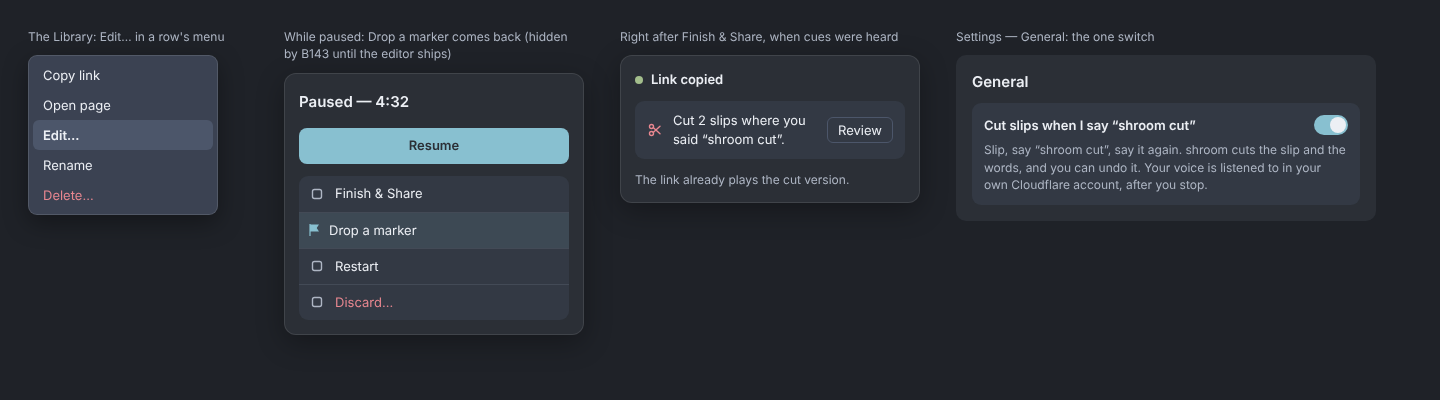
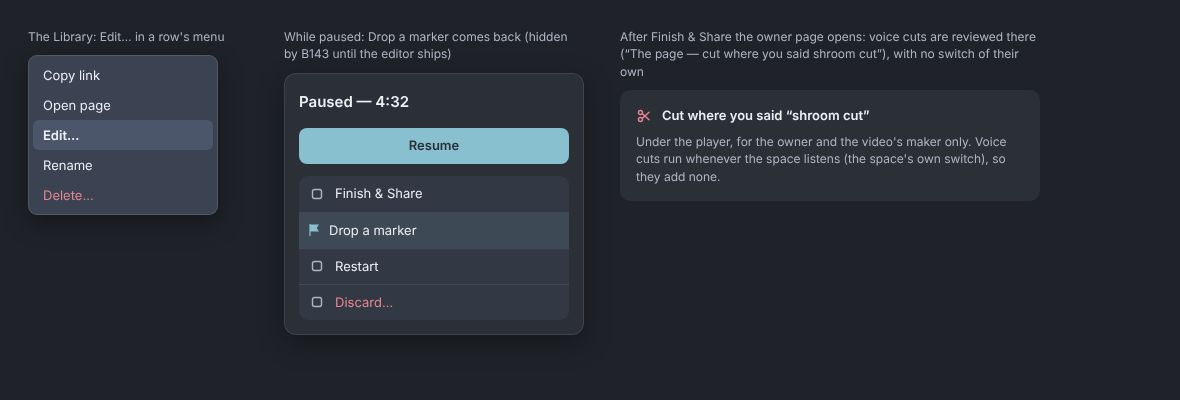
dev/proposals/voice-cut: the owner page's voice-cut boards; the ways-in board corrected
Voice cuts are reviewed where the owner looks after Finish & Share: the
owner page, under the player, owner-only, with Put back and Cut it too
(OwnerPageCuts, OwnerPageCutRows; N65, provisional). The ways-in board
no longer shows a popover after the stop (none opens) or a switch of
their own (they ride the space's listening).

diff --git a/dev/proposals/voice-cut/OwnerPageCuts.dc.html b/dev/proposals/voice-cut/OwnerPageCuts.dc.html
@@ -1,0 +1,45 @@
+<!doctype html>
+<html lang="en">
+<head>
+<meta charset="utf-8">
+<title>shroom video page, cut where you said shroom cut</title>
+<script src="./support.js"></script>
+</head>
+<body>
+<x-dc>
+<helmet>
+<style>
+body{margin:0}
+a{color:#88c0d0}a:hover{color:#8fbcbb}
+</style>
+</helmet>
+<div style="width: 1280px; min-height: 1100px; box-sizing: border-box; background: #2b2f36; padding: 40px 16px 24px 16px; display: flex; flex-direction: column; align-items: center; font-family: -apple-system, BlinkMacSystemFont, system-ui, sans-serif; font-size: 14px; line-height: 1.5; color: #eceff4"><div style="width: 100%; max-width: 960px; flex: 1 1 auto; display: flex; flex-direction: column; gap: 20px"><div style="display: flex; flex-direction: row; align-items: center; gap: 4px"><input type="text" aria-label="Title" value="Setting up shroom in two minutes" style="font: inherit; font-size: 1.75rem; font-weight: 600; flex: 1 1 0; min-width: 0; box-sizing: border-box; height: 52px; padding: 0; border: 1px solid transparent; border-radius: 9px; background: transparent; color: #eceff4; text-overflow: ellipsis"><button aria-label="Copy link" style="width: 44px; height: 44px; border: 0; border-radius: 9px; background: transparent; display: flex; align-items: center; justify-content: center; flex: none"><svg viewBox="0 0 16 16" aria-hidden="true" style="width: 18px; height: 18px; fill: none; stroke: #c3cad6; stroke-width: 1.4; stroke-linecap: round; stroke-linejoin: round; display: block"><path d="M6.8 9.2a2.8 2.8 0 0 0 4 0l2.2-2.2a2.8 2.8 0 0 0-4-4l-.8.8M9.2 6.8a2.8 2.8 0 0 0-4 0L3 9a2.8 2.8 0 0 0 4 4l.8-.8"></path></svg></button><button aria-label="Download" style="width: 44px; height: 44px; border: 0; border-radius: 9px; background: transparent; display: flex; align-items: center; justify-content: center; flex: none"><svg viewBox="0 0 16 16" aria-hidden="true" style="width: 18px; height: 18px; fill: none; stroke: #c3cad6; stroke-width: 1.4; stroke-linecap: round; stroke-linejoin: round; display: block"><path d="M8 2.5v8M4.5 7.5L8 11l3.5-3.5M3 13.5h10"></path></svg></button></div><div style="width: 100%; aspect-ratio: 16 / 9; border-radius: 12px; background: #1f2228; display: flex; flex-direction: column; overflow: hidden">
+<div style="flex: 1 1 0; display: flex; align-items: center; justify-content: center">
+<button aria-label="Play" style="width: 72px; height: 72px; border: 0; border-radius: 36px; background: rgba(236, 239, 244, 0.16); display: flex; align-items: center; justify-content: center">
+<svg viewBox="0 0 16 16" aria-hidden="true" style="width: 26px; height: 26px; fill: #eceff4; display: block"><path d="M5 3v10l8.5-5z"></path></svg>
+</button>
+</div>
+<div style="background: #262a31; display: flex; flex-direction: column; flex: none">
+<div role="slider" tabindex="0" aria-label="Seek" aria-valuetext="1:21 of 3:58" style="height: 16px; margin: -6px 0 -6px 0; display: flex; flex-direction: row; align-items: center; position: relative">
+<div style="width: 30%; height: 4px; background: #88c0d0"></div>
+<div style="width: 14px; height: 14px; border-radius: 7px; background: #eceff4; margin: 0 -7px; flex: none; position: relative"></div>
+<div style="flex: 1 1 0; height: 4px; background: #434a56"></div>
+</div>
+<div style="height: 52px; padding: 0 10px; display: flex; flex-direction: row; align-items: center; gap: 4px; color: #d8dee9; font-size: 13px">
+<button aria-label="Play" style="width: 44px; height: 44px; border: 0; border-radius: 8px; background: transparent; display: flex; align-items: center; justify-content: center; flex: none"><svg viewBox="0 0 16 16" aria-hidden="true" style="width: 18px; height: 18px; fill: #eceff4; display: block"><path d="M4.5 2.5v11l9-5.5z"></path></svg></button>
+<span style="font-variant-numeric: tabular-nums; padding: 0 6px; white-space: nowrap"><span style="color: #eceff4">1:21</span> / 3:58</span>
+<div style="flex: 1 1 0"></div>
+<button aria-label="Playback speed, 1×" style="font: inherit; height: 44px; min-width: 44px; padding: 0 10px; border: 0; border-radius: 8px; background: transparent; color: #d8dee9; font-weight: 600; flex: none">1×</button>
+</div>
+</div>
+</div><section aria-label="Cuts where you said shroom cut" style="background: #333944; border-radius: 12px; padding: 14px 16px; display: flex; flex-direction: column; gap: 10px"><div style="display: flex; flex-direction: row; align-items: center; gap: 10px"><svg viewBox="0 0 16 16" aria-hidden="true" style="width: 16px; height: 16px; fill: none; stroke: #e88790; stroke-width: 1.4; stroke-linecap: round; display: block; flex: none"><circle cx="4.5" cy="4.5" r="2"></circle><circle cx="4.5" cy="11.5" r="2"></circle><path d="M6.2 5.6L13 11.8M6.2 10.4L13 4.2"></path></svg><span style="font-weight: 600; font-size: 15px" data-said="owner-page-cuts.cut-where-you-said">Cut where you said “shroom cut”</span><span style="flex: 1 1 0"></span><span style="color: #aeb6c4; font-size: 13px" data-said="owner-page-cuts.only-you-see-this">Only you see this.</span></div><div style="display: flex; flex-direction: row; align-items: center; gap: 14px; padding: 10px 0 0 0; border-top: 1px solid #434a56"><span style="font-variant-numeric: tabular-nums; color: #c3cad6; flex: none; width: 36px">0:04</span><span style="flex: 1 1 0; min-width: 0; display: flex; flex-direction: column; gap: 2px"><span style="color: #aeb6c4; text-decoration: line-through; text-decoration-color: #e88790">“Hello, that is shroom. Shroom cut.”</span></span><button style="font: inherit; font-size: 13px; height: 32px; padding: 0 12px; border: 1px solid #4c566a; border-radius: 8px; background: transparent; color: #eceff4; flex: none" data-said="owner-page-cuts.put-back">Put back</button></div><div style="display: flex; flex-direction: row; align-items: center; gap: 14px; padding: 10px 0 0 0; border-top: 1px solid #434a56"><span style="font-variant-numeric: tabular-nums; color: #c3cad6; flex: none; width: 36px">1:12</span><span style="flex: 1 1 0; min-width: 0; display: flex; flex-direction: column; gap: 2px"><span style="color: #aeb6c4; text-decoration: line-through; text-decoration-color: #e88790">“Then you pick the, the window you, um, shroom cut.”</span></span><button style="font: inherit; font-size: 13px; height: 32px; padding: 0 12px; border: 1px solid #4c566a; border-radius: 8px; background: transparent; color: #eceff4; flex: none" data-said="owner-page-cuts.put-back">Put back</button></div><div style="display: flex; flex-direction: row; align-items: center; gap: 14px; padding: 10px 0 0 0; border-top: 1px solid #434a56"><span style="font-variant-numeric: tabular-nums; color: #c3cad6; flex: none; width: 36px">2:47</span><span style="flex: 1 1 0; min-width: 0; display: flex; flex-direction: column; gap: 2px"><span style="color: #ebcb8b; font-size: 13px" data-said="owner-page-cuts.only-the-words-went">Nothing was said again after it, so only “shroom cut” went. Cut the line before it too?</span><span style="color: #eceff4">“The second one is, um, I forget what it's called.”</span></span><button style="font: inherit; font-size: 13px; height: 32px; padding: 0 12px; border: 1px solid #4c566a; border-radius: 8px; background: transparent; color: #eceff4; flex: none" data-said="owner-page-cuts.cut-it-too">Cut it too</button></div></section></div><div style="width: 100%; max-width: 960px; padding: 32px 0 0 0; display: flex; flex-direction: row; justify-content: flex-end; align-items: center; gap: 10px"><button role="switch" aria-checked="true" aria-labelledby="mark-label" style="width: 36px; height: 20px; border: 0; border-radius: 10px; background: #88c0d0; padding: 2px; display: flex; flex-direction: row; justify-content: flex-end; align-items: center; flex: none"><span style="width: 16px; height: 16px; border-radius: 8px; background: #2b2f36; display: block"></span></button><span id="mark-label" style="color: #aeb6c4; font-size: 13px" data-said="owner-page.made-with-shroom">made with shroom</span><svg viewBox="18 20 84 90" aria-hidden="true" style="width: 17px; height: 18px; display: block"><path d="M50,68 C49,82 46,92 46,96 C46,101 52,104 60,104 C68,104 74,101 74,96 C74,92 71,82 70,68 Z" fill="#E5E9F0"></path><path d="M24,64 C24,42 40,26 60,26 C80,26 96,42 96,64 C86,75 34,75 24,64 Z" fill="#88C0D0"></path><circle cx="33" cy="58" r="3.4" fill="#ECEFF4"></circle><circle cx="88" cy="58" r="2.2" fill="#ECEFF4"></circle><circle cx="50" cy="44" r="6" fill="#ECEFF4"></circle><circle cx="72" cy="48" r="3.6" fill="#ECEFF4"></circle><circle cx="64" cy="58" r="2.6" fill="#ECEFF4"></circle></svg></div></div>
+</x-dc>
+<script type="text/x-dc" data-dc-script data-props='{"$preview":{"width":1280,"height":1100}}'>
+class Component extends DCLogic {
+renderVals() {
+return {};
+}
+}
+</script>
+</body>
+</html>

diff --git a/dev/proposals/voice-cut/EditorDoors.dc.html b/dev/proposals/voice-cut/EditorDoors.dc.html
@@ -13,7 +13,7 @@ body{margin:0}
 a{color:#88c0d0}a:hover{color:#8fbcbb}
 </style>
 </helmet>
-<div style="width: 1440px; height: 400px; box-sizing: border-box; background: #1f2228; display: flex; flex-direction: column; font-family: -apple-system, BlinkMacSystemFont, system-ui, sans-serif; font-size: 13px; line-height: 1.45; color: #eceff4">
+<div style="width: 1180px; height: 400px; box-sizing: border-box; background: #1f2228; display: flex; flex-direction: column; font-family: -apple-system, BlinkMacSystemFont, system-ui, sans-serif; font-size: 13px; line-height: 1.45; color: #eceff4">
 <div style="flex: 1 1 0; padding: 28px; display: flex; flex-direction: row; gap: 36px; align-items: flex-start">
 <div style="width: 220px; display: flex; flex-direction: column; gap: 10px; flex: none"><span style="color: #aeb6c4; font-size: 12px">The Library: Edit… in a row's menu</span><div role="menu" style="width: 190px; box-sizing: border-box; background: #3b4252; border: 1px solid rgba(255, 255, 255, 0.12); border-radius: 9px; box-shadow: 0 8px 24px rgba(0, 0, 0, 0.35); padding: 4px; display: flex; flex-direction: column">
 <button role="menuitem" style="font: inherit; height: 30px; padding: 0 10px; border: 0; border-radius: 6px; background: transparent; color: #eceff4; text-align: left">Copy link</button><button role="menuitem" style="font: inherit; height: 30px; padding: 0 10px; border: 0; border-radius: 6px; background: transparent; color: #eceff4; text-align: left">Open page</button>
@@ -25,21 +25,11 @@ a{color:#88c0d0}a:hover{color:#8fbcbb}
 <button style="font: inherit; height: 36px; padding: 0 10px; border: 0;  background: transparent; color: #eceff4; display: flex; flex-direction: row; align-items: center; gap: 10px; text-align: left"><svg viewBox="0 0 16 16" aria-hidden="true" style="width: 16px; height: 16px; fill: none; stroke: #aeb6c4; stroke-width: 1.4; display: block; flex: none"><rect x="3.5" y="3.5" width="9" height="9" rx="2"></rect></svg><span>Finish &amp; Share</span></button>
 <button style="font: inherit; height: 36px; padding: 0 10px; border: 0; border-top: 1px solid #434a56; background: rgba(136, 192, 208, 0.12); color: #eceff4; display: flex; flex-direction: row; align-items: center; gap: 10px; text-align: left"><svg viewBox="0 0 10 12" aria-hidden="true" style="width: 10px; height: 12px; display: block; fill: #88c0d0"><path d="M1 0v12M1 1h8l-2 3 2 3H1z" stroke="#88c0d0" stroke-width="1.2"></path></svg><span>Drop a marker</span></button>
 <button style="font: inherit; height: 36px; padding: 0 10px; border: 0; border-top: 1px solid #434a56; background: transparent; color: #eceff4; display: flex; flex-direction: row; align-items: center; gap: 10px; text-align: left"><svg viewBox="0 0 16 16" aria-hidden="true" style="width: 16px; height: 16px; fill: none; stroke: #aeb6c4; stroke-width: 1.4; display: block; flex: none"><rect x="3.5" y="3.5" width="9" height="9" rx="2"></rect></svg><span>Restart</span></button><button style="font: inherit; height: 36px; padding: 0 10px; border: 0; border-top: 1px solid #434a56; background: transparent; color: #e88790; display: flex; flex-direction: row; align-items: center; gap: 10px; text-align: left"><svg viewBox="0 0 16 16" aria-hidden="true" style="width: 16px; height: 16px; fill: none; stroke: #aeb6c4; stroke-width: 1.4; display: block; flex: none"><rect x="3.5" y="3.5" width="9" height="9" rx="2"></rect></svg><span>Discard…</span></button></div></div></div>
-<div style="width: 300px; display: flex; flex-direction: column; gap: 10px; flex: none"><span style="color: #aeb6c4; font-size: 12px">Right after Finish &amp; Share, when cues were heard</span><div style="width: 300px; box-sizing: border-box; background: #2b2f36; border: 1px solid rgba(255, 255, 255, 0.1); border-radius: 12px; box-shadow: 0 8px 28px rgba(0, 0, 0, 0.3); padding: 14px; display: flex; flex-direction: column; gap: 12px"><div style="display: flex; flex-direction: row; align-items: center; gap: 8px"><span style="width: 8px; height: 8px; border-radius: 4px; background: #a3be8c; display: block"></span><span style="font-weight: 600">Link copied</span></div>
-<div style="background: #333944; border-radius: 9px; padding: 10px 12px; display: flex; flex-direction: row; align-items: center; gap: 10px"><svg viewBox="0 0 16 16" aria-hidden="true" style="width: 16px; height: 16px; fill: none; stroke: #e88790; stroke-width: 1.4; stroke-linecap: round; display: block; flex: none"><circle cx="4.5" cy="4.5" r="2"></circle><circle cx="4.5" cy="11.5" r="2"></circle><path d="M6.2 5.6L13 11.8M6.2 10.4L13 4.2"></path></svg>
-<span style="flex: 1 1 0">Cut 2 slips where you said “shroom cut”.</span>
-<button style="font: inherit; height: 26px; padding: 0 10px; border: 1px solid #4c566a; border-radius: 6px; background: transparent; color: #eceff4">Review</button></div>
-<span style="color: #aeb6c4; font-size: 12px">The link already plays the cut version.</span></div></div>
-<div style="width: 420px; display: flex; flex-direction: column; gap: 10px; flex: none"><span style="color: #aeb6c4; font-size: 12px">Settings — General: the one switch</span><div style="width: 420px; box-sizing: border-box; background: #2b2f36; border-radius: 10px; padding: 16px; display: flex; flex-direction: column; gap: 10px">
-<h1 style="margin: 0; font-size: 15px; font-weight: 600">General</h1>
-<div style="background: #333944; border-radius: 9px; padding: 12px; display: flex; flex-direction: column; gap: 6px">
-<div style="display: flex; flex-direction: row; align-items: center; gap: 10px"><span style="flex: 1 1 0; font-weight: 600">Cut slips when I say “shroom cut”</span><span style="width: 34px; height: 20px; border-radius: 10px; background: #88c0d0; position: relative; display: block; flex: none"><span style="position: absolute; right: 2px; top: 2px; width: 16px; height: 16px; border-radius: 8px; background: #eceff4; display: block"></span></span></div>
-<span style="color: #aeb6c4; font-size: 12px">Slip, say “shroom cut”, say it again. shroom cuts the slip and the words, and you can undo it. Your voice is listened to in your own Cloudflare account, after you stop.</span>
-</div></div></div>
+<div style="width: 420px; display: flex; flex-direction: column; gap: 10px; flex: none"><span style="color: #aeb6c4; font-size: 12px">After Finish &amp; Share the owner page opens: voice cuts are reviewed there (“The page — cut where you said shroom cut”), with no switch of their own</span><div style="width: 420px; box-sizing: border-box; background: #2b2f36; border-radius: 10px; padding: 16px; display: flex; flex-direction: column; gap: 8px"><div style="display: flex; flex-direction: row; align-items: center; gap: 10px"><svg viewBox="0 0 16 16" aria-hidden="true" style="width: 16px; height: 16px; fill: none; stroke: #e88790; stroke-width: 1.4; stroke-linecap: round; display: block; flex: none"><circle cx="4.5" cy="4.5" r="2"></circle><circle cx="4.5" cy="11.5" r="2"></circle><path d="M6.2 5.6L13 11.8M6.2 10.4L13 4.2"></path></svg><span style="font-weight: 600">Cut where you said “shroom cut”</span></div><span style="color: #aeb6c4; font-size: 12px">Under the player, for the owner and the video's maker only. Voice cuts run whenever the space listens (the space's own switch), so they add none.</span></div></div>
 </div>
 </div>
 </x-dc>
-<script type="text/x-dc" data-dc-script data-props='{"$preview":{"width":1440,"height":400}}'>
+<script type="text/x-dc" data-dc-script data-props='{"$preview":{"width":1180,"height":400}}'>
 class Component extends DCLogic {
 renderVals() {
 return {};

diff --git a/dev/proposals/voice-cut/OwnerPageCutRows.dc.html b/dev/proposals/voice-cut/OwnerPageCutRows.dc.html
@@ -1,0 +1,28 @@
+<!doctype html>
+<html lang="en">
+<head>
+<meta charset="utf-8">
+<title>shroom video page, the cut rows after a press</title>
+<script src="./support.js"></script>
+</head>
+<body>
+<x-dc>
+<helmet>
+<style>
+body{margin:0}
+a{color:#88c0d0}a:hover{color:#8fbcbb}
+</style>
+</helmet>
+<div style="width: 1320px; height: 560px; box-sizing: border-box; background: #1f2228; display: flex; flex-direction: column; font-family: -apple-system, BlinkMacSystemFont, system-ui, sans-serif; font-size: 13px; line-height: 1.45; color: #eceff4">
+<div style="width: 1320px; min-height: 560px; box-sizing: border-box; background: #1f2228; padding: 28px; display: grid; grid-template-columns: 600px 600px; gap: 36px 60px; font-family: -apple-system, BlinkMacSystemFont, system-ui, sans-serif; font-size: 14px; line-height: 1.5; color: #eceff4"><div style="display: flex; flex-direction: column; gap: 10px; width: 600px"><span style="color: #aeb6c4; font-size: 12px">Put back: the slip plays again, and the row offers Cut again</span><section aria-label="Cuts where you said shroom cut" style="background: #333944; border-radius: 12px; padding: 14px 16px; display: flex; flex-direction: column; gap: 10px"><div style="display: flex; flex-direction: row; align-items: center; gap: 10px"><svg viewBox="0 0 16 16" aria-hidden="true" style="width: 16px; height: 16px; fill: none; stroke: #e88790; stroke-width: 1.4; stroke-linecap: round; display: block; flex: none"><circle cx="4.5" cy="4.5" r="2"></circle><circle cx="4.5" cy="11.5" r="2"></circle><path d="M6.2 5.6L13 11.8M6.2 10.4L13 4.2"></path></svg><span style="font-weight: 600; font-size: 15px" data-said="owner-page-cuts.cut-where-you-said">Cut where you said “shroom cut”</span><span style="flex: 1 1 0"></span><span style="color: #aeb6c4; font-size: 13px" data-said="owner-page-cuts.only-you-see-this">Only you see this.</span></div><div style="display: flex; flex-direction: row; align-items: center; gap: 14px; padding: 10px 0 0 0; border-top: 1px solid #434a56"><span style="font-variant-numeric: tabular-nums; color: #c3cad6; flex: none; width: 36px">0:04</span><span style="flex: 1 1 0; min-width: 0; display: flex; flex-direction: column; gap: 2px"><span style="color: #eceff4">“Hello, that is shroom. Shroom cut.”</span></span><button style="font: inherit; font-size: 13px; height: 32px; padding: 0 12px; border: 1px solid #4c566a; border-radius: 8px; background: transparent; color: #eceff4; flex: none" data-said="owner-page-cuts.cut-again">Cut again</button></div></section></div><div style="display: flex; flex-direction: column; gap: 10px; width: 600px"><span style="color: #aeb6c4; font-size: 12px">Cut it too: the line before the cue is cut as well, and can be put back</span><section aria-label="Cuts where you said shroom cut" style="background: #333944; border-radius: 12px; padding: 14px 16px; display: flex; flex-direction: column; gap: 10px"><div style="display: flex; flex-direction: row; align-items: center; gap: 10px"><svg viewBox="0 0 16 16" aria-hidden="true" style="width: 16px; height: 16px; fill: none; stroke: #e88790; stroke-width: 1.4; stroke-linecap: round; display: block; flex: none"><circle cx="4.5" cy="4.5" r="2"></circle><circle cx="4.5" cy="11.5" r="2"></circle><path d="M6.2 5.6L13 11.8M6.2 10.4L13 4.2"></path></svg><span style="font-weight: 600; font-size: 15px" data-said="owner-page-cuts.cut-where-you-said">Cut where you said “shroom cut”</span><span style="flex: 1 1 0"></span><span style="color: #aeb6c4; font-size: 13px" data-said="owner-page-cuts.only-you-see-this">Only you see this.</span></div><div style="display: flex; flex-direction: row; align-items: center; gap: 14px; padding: 10px 0 0 0; border-top: 1px solid #434a56"><span style="font-variant-numeric: tabular-nums; color: #c3cad6; flex: none; width: 36px">2:47</span><span style="flex: 1 1 0; min-width: 0; display: flex; flex-direction: column; gap: 2px"><span style="color: #aeb6c4; text-decoration: line-through; text-decoration-color: #e88790">“The second one is, um, I forget what it's called.”</span></span><button style="font: inherit; font-size: 13px; height: 32px; padding: 0 12px; border: 1px solid #4c566a; border-radius: 8px; background: transparent; color: #eceff4; flex: none" data-said="owner-page-cuts.put-back">Put back</button></div></section></div><div style="display: flex; flex-direction: column; gap: 10px; width: 600px"><span style="color: #aeb6c4; font-size: 12px">A press that didn't save: the row is as it was, and one line says so</span><section aria-label="Cuts where you said shroom cut" style="background: #333944; border-radius: 12px; padding: 14px 16px; display: flex; flex-direction: column; gap: 10px"><div style="display: flex; flex-direction: row; align-items: center; gap: 10px"><svg viewBox="0 0 16 16" aria-hidden="true" style="width: 16px; height: 16px; fill: none; stroke: #e88790; stroke-width: 1.4; stroke-linecap: round; display: block; flex: none"><circle cx="4.5" cy="4.5" r="2"></circle><circle cx="4.5" cy="11.5" r="2"></circle><path d="M6.2 5.6L13 11.8M6.2 10.4L13 4.2"></path></svg><span style="font-weight: 600; font-size: 15px" data-said="owner-page-cuts.cut-where-you-said">Cut where you said “shroom cut”</span><span style="flex: 1 1 0"></span><span style="color: #aeb6c4; font-size: 13px" data-said="owner-page-cuts.only-you-see-this">Only you see this.</span></div><div style="display: flex; flex-direction: row; align-items: center; gap: 14px; padding: 10px 0 0 0; border-top: 1px solid #434a56"><span style="font-variant-numeric: tabular-nums; color: #c3cad6; flex: none; width: 36px">1:12</span><span style="flex: 1 1 0; min-width: 0; display: flex; flex-direction: column; gap: 2px"><span style="color: #aeb6c4; text-decoration: line-through; text-decoration-color: #e88790">“Then you pick the, the window you, um, shroom cut.”</span></span><button style="font: inherit; font-size: 13px; height: 32px; padding: 0 12px; border: 1px solid #4c566a; border-radius: 8px; background: transparent; color: #eceff4; flex: none" data-said="owner-page-cuts.put-back">Put back</button></div><span style="color: #ebcb8b; font-size: 13px" role="status" data-said="owner-page-cuts.couldnt-save">Couldn't save that. Check your connection, then try again.</span></section></div></div>
+</div>
+</x-dc>
+<script type="text/x-dc" data-dc-script data-props='{"$preview":{"width":1320,"height":560}}'>
+class Component extends DCLogic {
+renderVals() {
+return {};
+}
+}
+</script>
+</body>
+</html>

diff --git a/dev/proposals/voice-cut/make-boards.py b/dev/proposals/voice-cut/make-boards.py
@@ -1,7 +1,9 @@
 #!/usr/bin/env python3
 """Writes the editing proposal's canvas boards (dev/proposals/voice-cut.md) into
-<root>/project/: EditorTrim, EditorVoiceCuts, EditorDoors. Words are placeholders for
-Bagrat; the look follows the canvas's dark Nord boards (app/src/lib/theme.css)."""
+<root>/project/: EditorTrim, EditorVoiceCuts, EditorDoors, and the voice-cut build's
+owner-page boards (spec N65): OwnerPageCuts and OwnerPageCutRows. Words are provisional;
+the look follows the canvas's dark Nord boards (app/src/lib/theme.css) and, for the owner
+page, its OwnerPageLive board."""
 
 import math
 import random
@@ -252,13 +254,151 @@ def board_doors():
 <div style="display: flex; flex-direction: row; align-items: center; gap: 10px"><span style="flex: 1 1 0; font-weight: 600">Cut slips when I say “shroom cut”</span>{toggle}</div>
 <span style="color: {MUTED}; font-size: 12px">Slip, say “shroom cut”, say it again. shroom cuts the slip and the words, and you can undo it. Your voice is listened to in your own Cloudflare account, after you stop.</span>
 </div></div>'''
+    owner_note = (f'<div style="width: 420px; box-sizing: border-box; background: {BG}; border-radius: 10px; padding: 16px; display: flex; flex-direction: column; gap: 8px">'
+                  f'<div style="display: flex; flex-direction: row; align-items: center; gap: 10px">{scissors(RED, 16)}<span style="font-weight: 600">Cut where you said “shroom cut”</span></div>'
+                  f'<span style="color: {MUTED}; font-size: 12px">Under the player, for the owner and the video\'s maker only. Voice cuts run whenever the space listens (the space\'s own switch), so they add none.</span></div>')
     body = f'''<div style="flex: 1 1 0; padding: 28px; display: flex; flex-direction: row; gap: 36px; align-items: flex-start">
 {mini("The Library: Edit… in a row's menu", menu, 220)}
 {mini("While paused: Drop a marker comes back (hidden by B143 until the editor ships)", paused, 300)}
-{mini("Right after Finish &amp; Share, when cues were heard", after, 300)}
-{mini("Settings — General: the one switch", settings, 420)}
+{mini("After Finish &amp; Share the owner page opens: voice cuts are reviewed there (“The page — cut where you said shroom cut”), with no switch of their own", owner_note, 420)}
 </div>'''
-    return page("shroom Editor, the ways in", 1440, 400, body)
+    return page("shroom Editor, the ways in", 1180, 400, body)
+
+
+# ── The owner page's voice cuts (N65) ─────────────────────────────────────────────────
+# The page's markup is OwnerPageLive's (the canvas), with the strip under the player.
+
+PLAY_SVG = '<svg viewBox="0 0 16 16" aria-hidden="true" style="width: 18px; height: 18px; fill: #eceff4; display: block"><path d="M4.5 2.5v11l9-5.5z"></path></svg>'
+
+
+def icon_button(label, path, size=18):
+    return (f'<button aria-label="{label}" style="width: 44px; height: 44px; border: 0; border-radius: 9px; background: transparent; display: flex; align-items: center; justify-content: center; flex: none">'
+            f'<svg viewBox="0 0 16 16" aria-hidden="true" style="width: {size}px; height: {size}px; fill: none; stroke: #c3cad6; stroke-width: 1.4; stroke-linecap: round; stroke-linejoin: round; display: block"><path d="{path}"></path></svg></button>')
+
+
+def mark_footer():
+    return ('<div style="width: 100%; max-width: 960px; padding: 32px 0 0 0; display: flex; flex-direction: row; justify-content: flex-end; align-items: center; gap: 10px">'
+            '<button role="switch" aria-checked="true" aria-labelledby="mark-label" style="width: 36px; height: 20px; border: 0; border-radius: 10px; background: #88c0d0; padding: 2px; display: flex; flex-direction: row; justify-content: flex-end; align-items: center; flex: none">'
+            '<span style="width: 16px; height: 16px; border-radius: 8px; background: #2b2f36; display: block"></span></button>'
+            '<span id="mark-label" style="color: #aeb6c4; font-size: 13px" data-said="owner-page.made-with-shroom">made with shroom</span>'
+            '<svg viewBox="18 20 84 90" aria-hidden="true" style="width: 17px; height: 18px; display: block">'
+            '<path d="M50,68 C49,82 46,92 46,96 C46,101 52,104 60,104 C68,104 74,101 74,96 C74,92 71,82 70,68 Z" fill="#E5E9F0"></path>'
+            '<path d="M24,64 C24,42 40,26 60,26 C80,26 96,42 96,64 C86,75 34,75 24,64 Z" fill="#88C0D0"></path>'
+            '<circle cx="33" cy="58" r="3.4" fill="#ECEFF4"></circle><circle cx="88" cy="58" r="2.2" fill="#ECEFF4"></circle>'
+            '<circle cx="50" cy="44" r="6" fill="#ECEFF4"></circle><circle cx="72" cy="48" r="3.6" fill="#ECEFF4"></circle>'
+            '<circle cx="64" cy="58" r="2.6" fill="#ECEFF4"></circle></svg></div>')
+
+
+def player(now, total, played=0.3):
+    return f"""<div style="width: 100%; aspect-ratio: 16 / 9; border-radius: 12px; background: #1f2228; display: flex; flex-direction: column; overflow: hidden">
+<div style="flex: 1 1 0; display: flex; align-items: center; justify-content: center">
+<button aria-label="Play" style="width: 72px; height: 72px; border: 0; border-radius: 36px; background: rgba(236, 239, 244, 0.16); display: flex; align-items: center; justify-content: center">
+<svg viewBox="0 0 16 16" aria-hidden="true" style="width: 26px; height: 26px; fill: #eceff4; display: block"><path d="M5 3v10l8.5-5z"></path></svg>
+</button>
+</div>
+<div style="background: #262a31; display: flex; flex-direction: column; flex: none">
+<div role="slider" tabindex="0" aria-label="Seek" aria-valuetext="{now} of {total}" style="height: 16px; margin: -6px 0 -6px 0; display: flex; flex-direction: row; align-items: center; position: relative">
+<div style="width: {played * 100:.0f}%; height: 4px; background: #88c0d0"></div>
+<div style="width: 14px; height: 14px; border-radius: 7px; background: #eceff4; margin: 0 -7px; flex: none; position: relative"></div>
+<div style="flex: 1 1 0; height: 4px; background: #434a56"></div>
+</div>
+<div style="height: 52px; padding: 0 10px; display: flex; flex-direction: row; align-items: center; gap: 4px; color: #d8dee9; font-size: 13px">
+<button aria-label="Play" style="width: 44px; height: 44px; border: 0; border-radius: 8px; background: transparent; display: flex; align-items: center; justify-content: center; flex: none">{PLAY_SVG}</button>
+<span style="font-variant-numeric: tabular-nums; padding: 0 6px; white-space: nowrap"><span style="color: #eceff4">{now}</span> / {total}</span>
+<div style="flex: 1 1 0"></div>
+<button aria-label="Playback speed, 1×" style="font: inherit; height: 44px; min-width: 44px; padding: 0 10px; border: 0; border-radius: 8px; background: transparent; color: #d8dee9; font-weight: 600; flex: none">1×</button>
+</div>
+</div>
+</div>"""
+
+
+def cut_row(when, said, state, note=None):
+    """One cut in the strip. state: "cut" (struck, Put back), "back" (put back: plain, Cut
+    again), "offer" (the line before a cue with no retake: plain, Cut it too)."""
+    struck = state == "cut"
+    text_style = (f"color: {MUTED}; text-decoration: line-through; text-decoration-color: {RED}" if struck else f"color: {FG}")
+    label, said_id = {"cut": ("Put back", "owner-page-cuts.put-back"), "back": ("Cut again", "owner-page-cuts.cut-again"),
+                      "offer": ("Cut it too", "owner-page-cuts.cut-it-too")}[state]
+    note_html = f'<span style="color: {AMBER}; font-size: 13px" data-said="owner-page-cuts.only-the-words-went">{note}</span>' if note else ""
+    return (f'<div style="display: flex; flex-direction: row; align-items: center; gap: 14px; padding: 10px 0 0 0; border-top: 1px solid {LINE}">'
+            f'<span style="font-variant-numeric: tabular-nums; color: {FG3}; flex: none; width: 36px">{when}</span>'
+            f'<span style="flex: 1 1 0; min-width: 0; display: flex; flex-direction: column; gap: 2px">{note_html}<span style="{text_style}">“{said}”</span></span>'
+            f'<button style="font: inherit; font-size: 13px; height: 32px; padding: 0 12px; border: 1px solid {BORDER}; border-radius: 8px; background: transparent; color: {FG}; flex: none" data-said="{said_id}">{label}</button></div>')
+
+
+OFFER_NOTE = "Nothing was said again after it, so only “shroom cut” went. Cut the line before it too?"
+
+
+def strip(rows, error=None):
+    err = (f'<span style="color: {AMBER}; font-size: 13px" role="status" data-said="owner-page-cuts.couldnt-save">{error}</span>' if error else "")
+    return (f'<section aria-label="Cuts where you said shroom cut" style="background: {CARD}; border-radius: 12px; padding: 14px 16px; display: flex; flex-direction: column; gap: 10px">'
+            f'<div style="display: flex; flex-direction: row; align-items: center; gap: 10px">{scissors(RED, 16)}'
+            f'<span style="font-weight: 600; font-size: 15px" data-said="owner-page-cuts.cut-where-you-said">Cut where you said “shroom cut”</span>'
+            f'<span style="flex: 1 1 0"></span><span style="color: {MUTED}; font-size: 13px" data-said="owner-page-cuts.only-you-see-this">Only you see this.</span></div>'
+            f'{"".join(rows)}{err}</section>')
+
+
+def owner_page(board_title, title, now, total, body_after_player, w=1280, h=1100):
+    head = ('<div style="display: flex; flex-direction: row; align-items: center; gap: 4px">'
+            f'<input type="text" aria-label="Title" value="{title}" style="font: inherit; font-size: 1.75rem; font-weight: 600; flex: 1 1 0; min-width: 0; box-sizing: border-box; height: 52px; padding: 0; border: 1px solid transparent; border-radius: 9px; background: transparent; color: {FG}; text-overflow: ellipsis">'
+            + icon_button("Copy link", "M6.8 9.2a2.8 2.8 0 0 0 4 0l2.2-2.2a2.8 2.8 0 0 0-4-4l-.8.8M9.2 6.8a2.8 2.8 0 0 0-4 0L3 9a2.8 2.8 0 0 0 4 4l.8-.8")
+            + icon_button("Download", "M8 2.5v8M4.5 7.5L8 11l3.5-3.5M3 13.5h10") + '</div>')
+    body = (f'<div style="width: {w}px; min-height: {h}px; box-sizing: border-box; background: {BG}; padding: 40px 16px 24px 16px; display: flex; flex-direction: column; align-items: center; font-family: {FONT}; font-size: 14px; line-height: 1.5; color: {FG}">'
+            f'<div style="width: 100%; max-width: 960px; flex: 1 1 auto; display: flex; flex-direction: column; gap: 20px">{head}{player(now, total)}{body_after_player}</div>'
+            f'{mark_footer()}</div>')
+    return f"""<!doctype html>
+<html lang="en">
+<head>
+<meta charset="utf-8">
+<title>{board_title}</title>
+<script src="./support.js"></script>
+</head>
+<body>
+<x-dc>
+<helmet>
+<style>
+body{{margin:0}}
+a{{color:#88c0d0}}a:hover{{color:#8fbcbb}}
+</style>
+</helmet>
+{body}
+</x-dc>
+<script type="text/x-dc" data-dc-script data-props='{{"$preview":{{"width":{w},"height":{h}}}}}'>
+class Component extends DCLogic {{
+renderVals() {{
+return {{}};
+}}
+}}
+</script>
+</body>
+</html>
+"""
+
+
+def board_owner_cuts():
+    rows = [
+        cut_row("0:04", "Hello, that is shroom. Shroom cut.", "cut"),
+        cut_row("1:12", "Then you pick the, the window you, um, shroom cut.", "cut"),
+        cut_row("2:47", "The second one is, um, I forget what it's called.", "offer", OFFER_NOTE),
+    ]
+    return owner_page("shroom video page, cut where you said shroom cut", "Setting up shroom in two minutes", "1:21", "3:58", strip(rows))
+
+
+def board_owner_cut_rows():
+    """The strip's rows after a press, and when a press didn't save (the row goes back)."""
+    def panel(caption, inner):
+        return (f'<div style="display: flex; flex-direction: column; gap: 10px; width: 600px">'
+                f'<span style="color: {MUTED}; font-size: 12px">{caption}</span>{inner}</div>')
+    a = panel("Put back: the slip plays again, and the row offers Cut again",
+              strip([cut_row("0:04", "Hello, that is shroom. Shroom cut.", "back")]))
+    b = panel("Cut it too: the line before the cue is cut as well, and can be put back",
+              strip([cut_row("2:47", "The second one is, um, I forget what it's called.", "cut")]))
+    c = panel("A press that didn't save: the row is as it was, and one line says so",
+              strip([cut_row("1:12", "Then you pick the, the window you, um, shroom cut.", "cut")],
+                    error="Couldn't save that. Check your connection, then try again."))
+    body = (f'<div style="width: 1320px; min-height: 560px; box-sizing: border-box; background: #1f2228; padding: 28px; display: grid; grid-template-columns: 600px 600px; gap: 36px 60px; font-family: {FONT}; font-size: 14px; line-height: 1.5; color: {FG}">'
+            f'{a}{b}{c}</div>')
+    return page("shroom video page, the cut rows after a press", 1320, 560, body)
 
 
 def main():
@@ -267,6 +407,8 @@ def main():
     (root / "EditorTrim.dc.html").write_text(board_trim())
     (root / "EditorVoiceCuts.dc.html").write_text(board_cues())
     (root / "EditorDoors.dc.html").write_text(board_doors())
+    (root / "OwnerPageCuts.dc.html").write_text(board_owner_cuts())
+    (root / "OwnerPageCutRows.dc.html").write_text(board_owner_cut_rows())
 
 
 if __name__ == "__main__":
